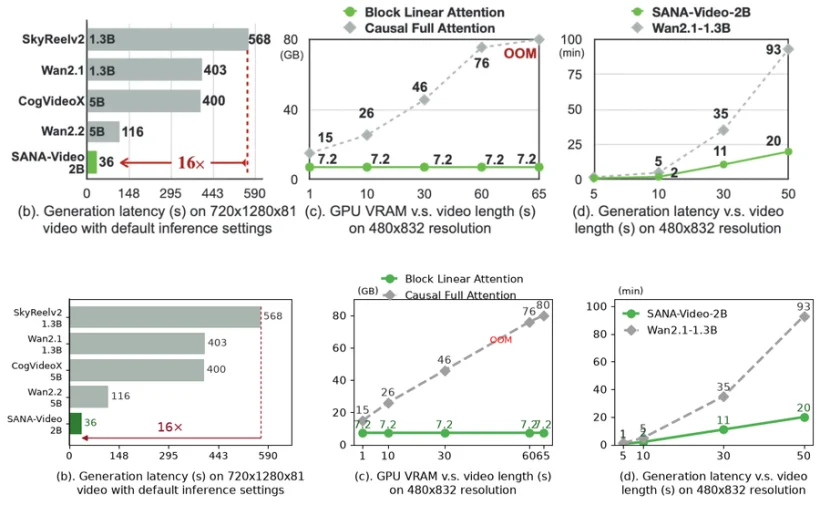
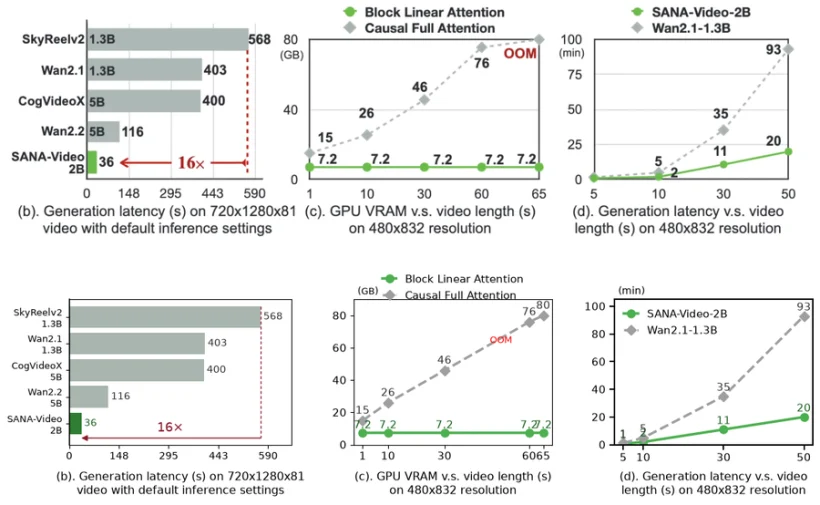
improve(replicas): 第五十一轮 —— 04 面板 2/3 加四边框
对比发现原图的面板 2/3 是**四边都有边框**（boxed），我只画了左+下。
- 四个 spine 全部显示，linewidth 1.5
- 刻度 length 5 / width 1.4
- (GB)/(min) 单位标签 9 → 10

墨迹 83% → 84%（面板 1 已 100%，面板 2/3 还差 0.02 的中间调）

Changed region(s): [[0.7012, 0.5941, 1.0, 0.9208], [0.7622, 0.5644, 0.9756, 0.5941], [0.7012, 0.5941, 0.7622, 0.6238]]

diff --git a/tools/figlab/replicas.py b/tools/figlab/replicas.py
@@ -363,8 +363,11 @@ def fig04():
     for xi, yi in zip(L2, t_gray):
         ax.text(xi, yi + 4.0, "%.0f" % yi, ha="center", fontsize=10.5, color="#333333")
     ax.set_xticks(L2)
-    ax.tick_params(labelsize=10.5)
-    ax.text(0.02, 1.02, "(min)", transform=ax.transAxes, fontsize=9, va="bottom")
+    ax.tick_params(labelsize=10.5, length=5, width=1.4)
+    for sp in ("left", "bottom", "top", "right"):
+        ax.spines[sp].set_visible(True)
+        ax.spines[sp].set_linewidth(1.5)
+    ax.text(0.02, 1.02, "(min)", transform=ax.transAxes, fontsize=10, va="bottom")
     ax.set_ylim(0, 105)
     ax.legend(frameon=False, loc="upper left", fontsize=11, handlelength=1.3)
     ax.set_title("(d). Generation latency v.s. video\nlength (s) on 480x832 resolution",
